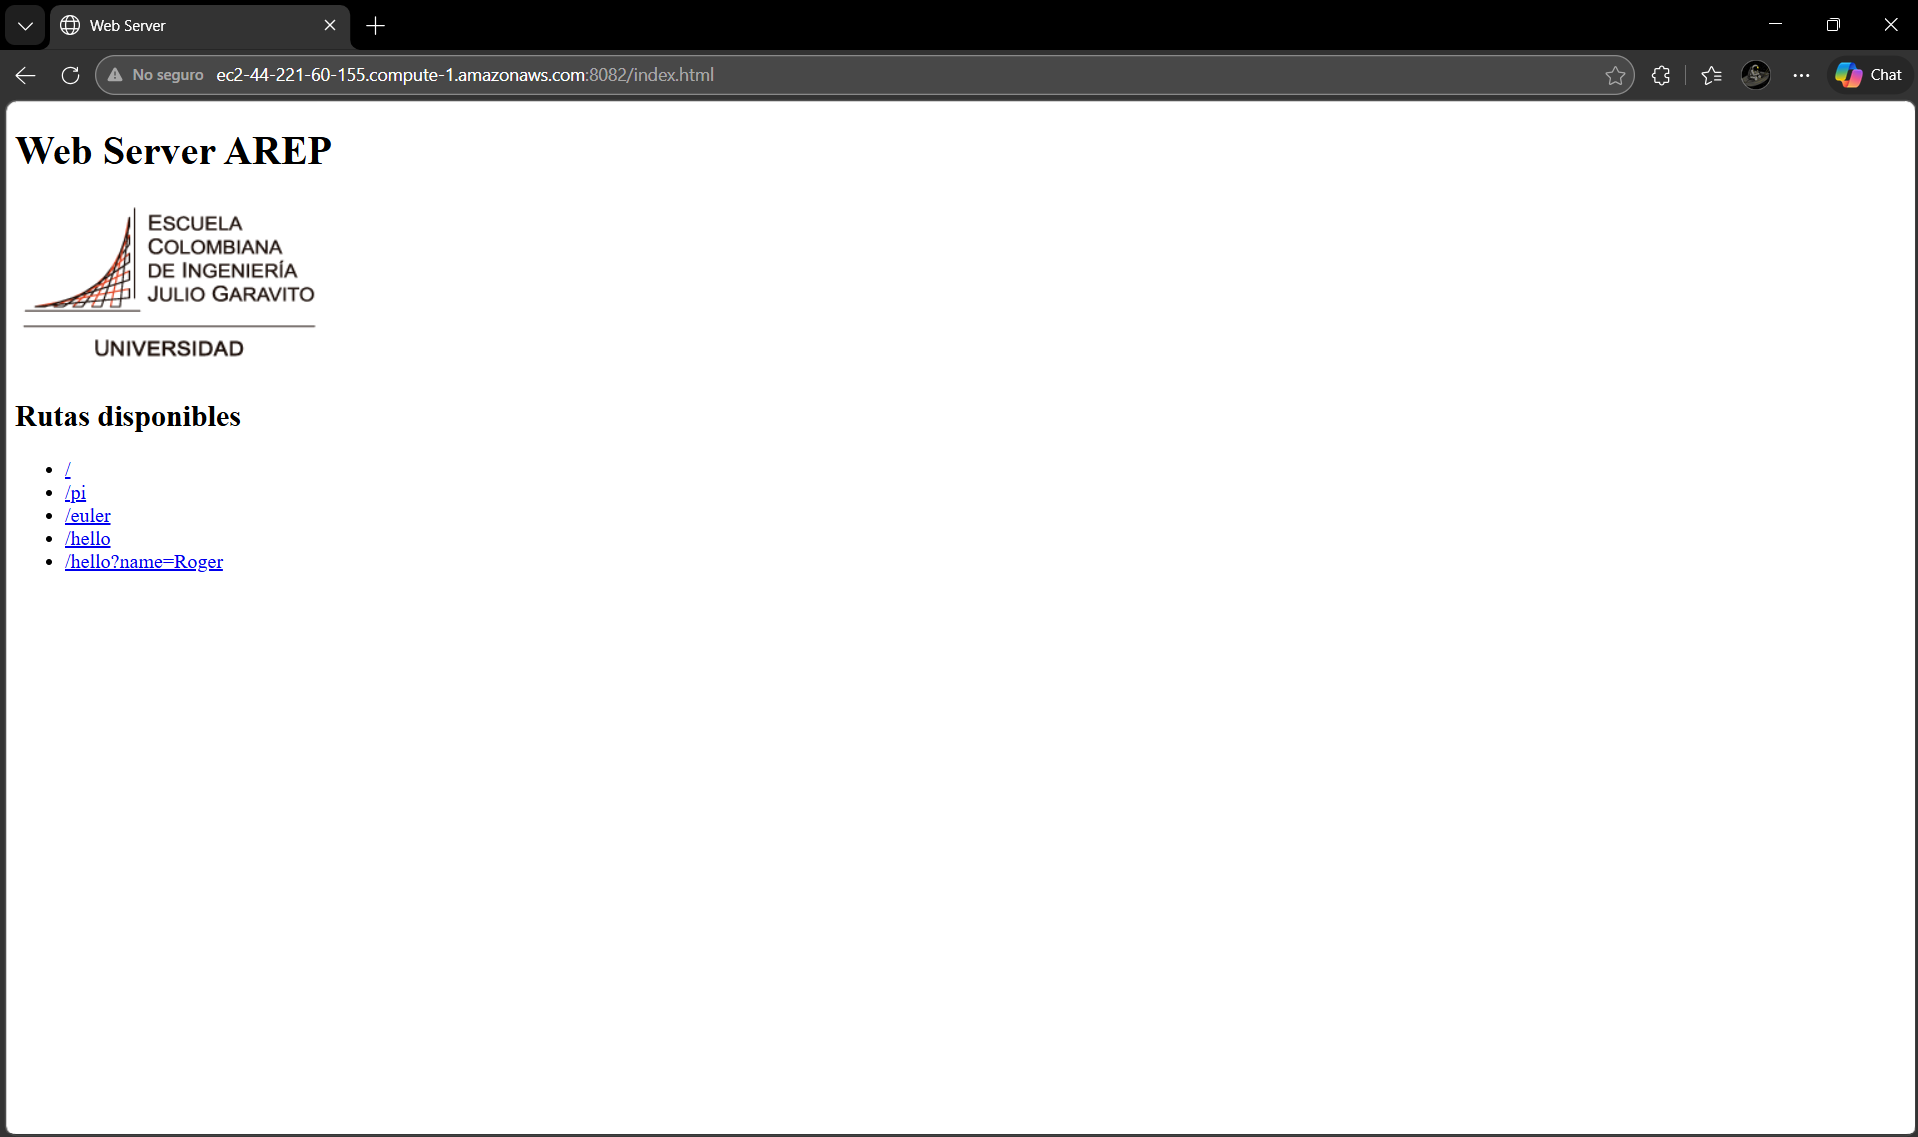
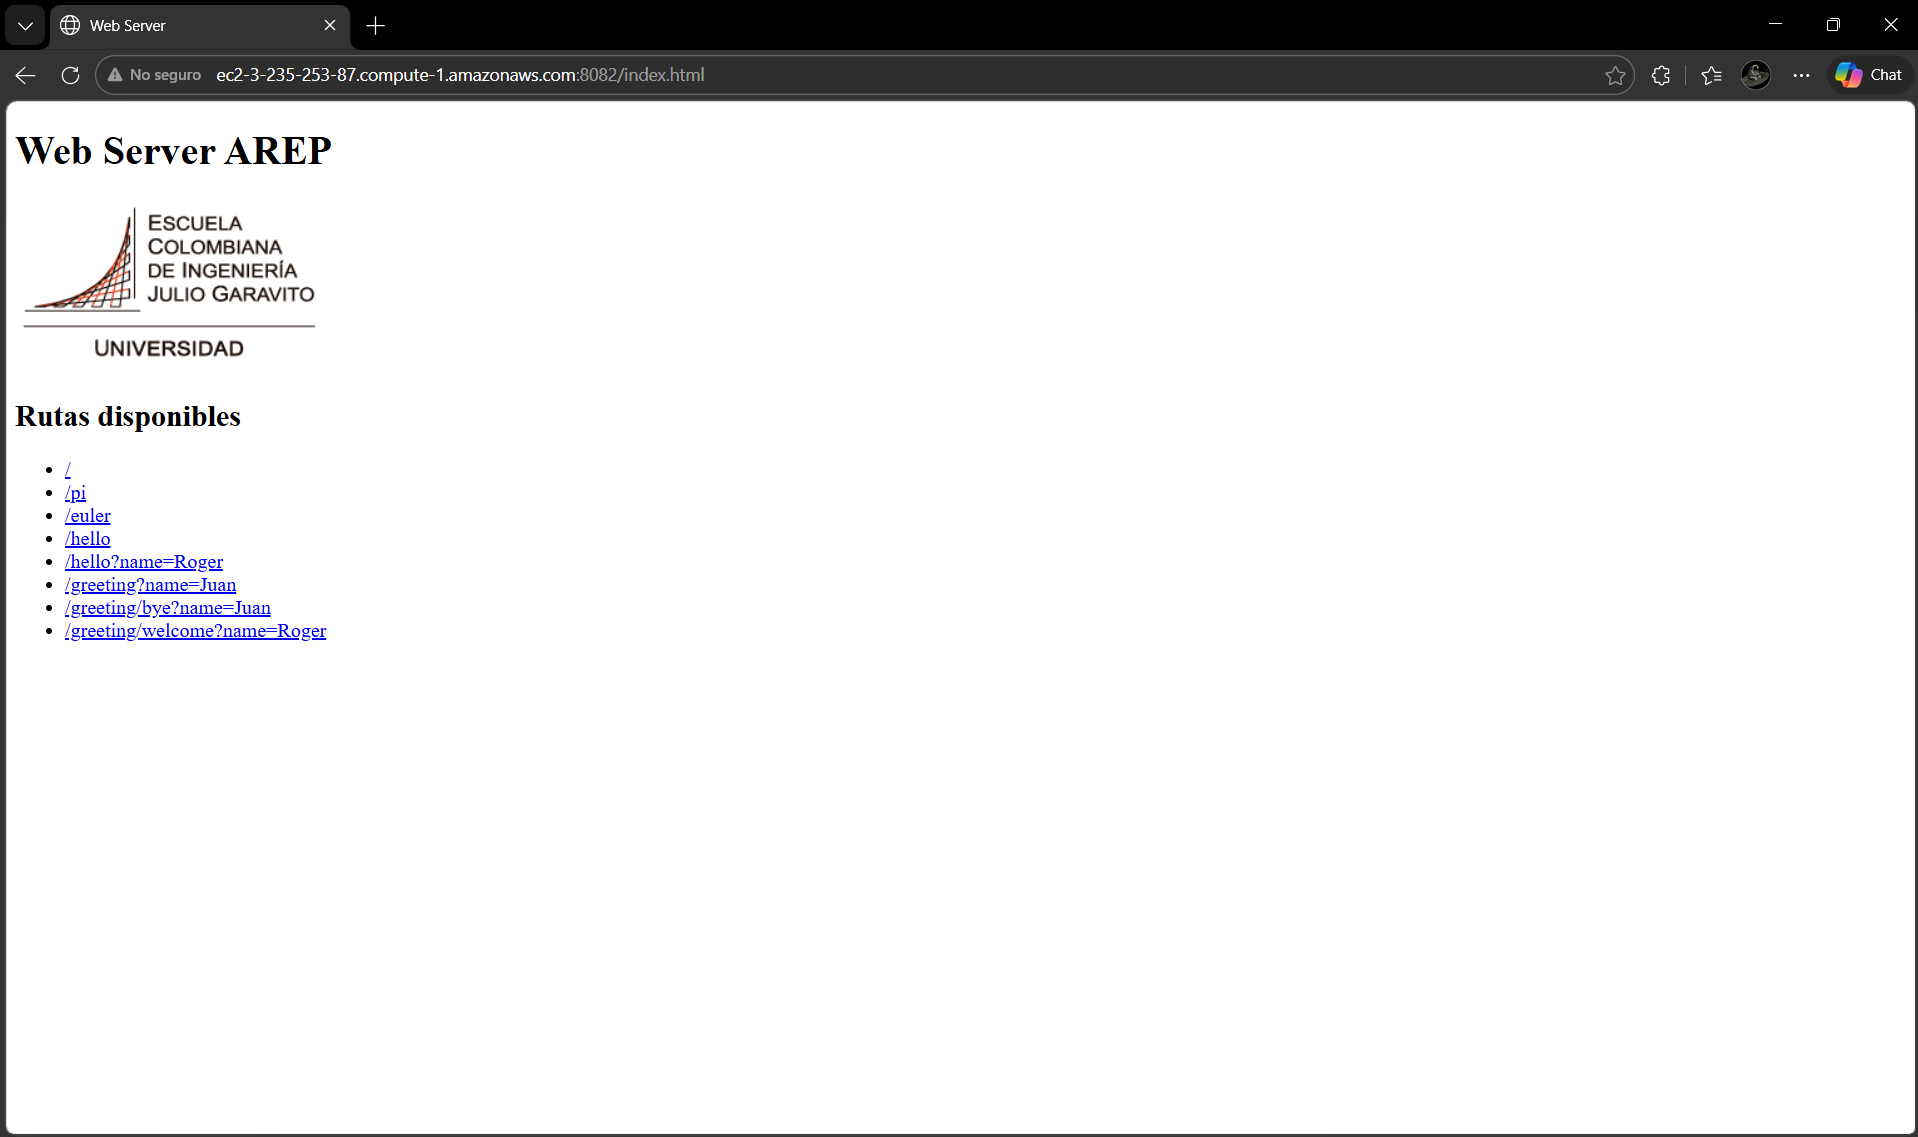
Everything  ok

Changed region(s): [[0.0308, 0.0308, 0.8613, 0.0923], [0.0308, 0.4925, 0.1538, 0.5849]]

diff --git a/AppWebServe/src/main/resources/webroot/index.html b/AppWebServe/src/main/resources/webroot/index.html
@@ -18,6 +18,9 @@
         <li><a href="/euler">/euler</a></li>
         <li><a href="/hello">/hello</a></li>
         <li><a href="/hello?name=Roger">/hello?name=Roger</a></li>
+        <li><a href="/greeting?name=Juan">/greeting?name=Juan</a></li>
+        <li><a href="/greeting/bye?name=Juan">/greeting/bye?name=Juan</a></li>
+        <li><a href="/greeting/welcome?name=Roger">/greeting/welcome?name=Roger</a></li>
     </ul>
     
 </body>

diff --git a/AppWebServe/src/test/java/edu/escuelaing/arep/AppTest.java b/AppWebServe/src/test/java/edu/escuelaing/arep/AppTest.java
@@ -1,19 +1,108 @@
 package edu.escuelaing.arep;
 
-import static org.junit.jupiter.api.Assertions.assertTrue;
-
 import org.junit.jupiter.api.Test;
+import static org.junit.jupiter.api.Assertions.*;
 
-/**
- * Unit test for simple App.
- */
+import java.util.HashMap;
+import java.util.Map;
+
 public class AppTest {
 
-    /**
-     * Rigorous Test :-)
-     */
     @Test
-    public void shouldAnswerWithTrue() {
-        assertTrue(true);
+    public void testHelloWorldDefault() {
+        String result = HelloController.hello("World");
+        assertEquals("Hello, World!", result);
+    }
+
+    @Test
+    public void testHelloWithName() {
+        String result = HelloController.hello("Roger");
+        assertEquals("Hello, Roger!", result);
+    }
+
+    @Test
+    public void testPi() {
+        String result = HelloController.pi();
+        assertTrue(result.contains("3.14"));
+    }
+
+    @Test
+    public void testEuler() {
+        String result = HelloController.euler();
+        assertTrue(result.contains("2.71"));
+    }
+
+    @Test
+    public void testGreeting() {
+        String result = GreetingController.greeting("Juan");
+        assertEquals("Hola Juan", result);
+    }
+
+    @Test
+    public void testGreetingDefault() {
+        String result = GreetingController.greeting("World");
+        assertEquals("Hola World", result);
+    }
+
+    @Test
+    public void testGreetingWithName() {
+        String result = GreetingController.greeting("Roger");
+        assertEquals("Hola Roger", result);
+    }
+
+    @Test
+    public void testGreetingEmptyName() {
+        String result = GreetingController.greeting("");
+        assertEquals("Hola ", result);
+    }
+
+    @Test
+    public void testGreetingBye() {
+        String result = GreetingController.bye("Juan");
+        assertEquals("Adios Juan", result);
+    }
+
+    @Test
+    public void testGreetingByeDefault() {
+        String result = GreetingController.bye("World");
+        assertEquals("Adios World", result);
+    }
+
+    @Test
+    public void testGreetingWelcome() {
+        String result = GreetingController.welcome("Roger");
+        assertEquals("Bienvenido Roger", result);
+    }
+
+    @Test
+    public void testGreetingWelcomeDefault() {
+        String result = GreetingController.welcome("World");
+        assertEquals("Bienvenido World", result);
+    }
+
+    @Test
+    public void testHttpRequestGetValue() {
+        Map<String, String> params = new HashMap<>();
+        params.put("name", "Roger");
+        HttpRequest req = new HttpRequest(params);
+        assertEquals("Roger", req.getValue("name"));
+    }
+
+    @Test
+    public void testHttpRequestNullParam() {
+        Map<String, String> params = new HashMap<>();
+        HttpRequest req = new HttpRequest(params);
+        assertNull(req.getValue("name"));
+    }
+
+    @Test
+    public void testWebFrameworkRegisterAndGet() {
+        WebFramework.get("/test", (req, res) -> "test response");
+        assertNotNull(WebFramework.getRoute("/test"));
+    }
+
+    @Test
+    public void testWebFrameworkRouteNotFound() {
+        assertNull(WebFramework.getRoute("/ruta-inexistente"));
     }
 }

diff --git a/AppWebServe/src/main/java/edu/escuelaing/arep/GreetingController.java b/AppWebServe/src/main/java/edu/escuelaing/arep/GreetingController.java
@@ -7,4 +7,14 @@ public class GreetingController {
     public static String greeting(@RequestParam(value = "name", defaultValue = "World") String name) {
         return "Hola " + name;
     }
+
+    @GetMapping("/greeting/bye")
+    public static String bye(@RequestParam(value = "name", defaultValue = "World") String name) {
+        return "Adios " + name;
+    }
+
+    @GetMapping("/greeting/welcome")
+    public static String welcome(@RequestParam(value = "name", defaultValue = "World") String name) {
+        return "Bienvenido " + name;
+    }
 }
